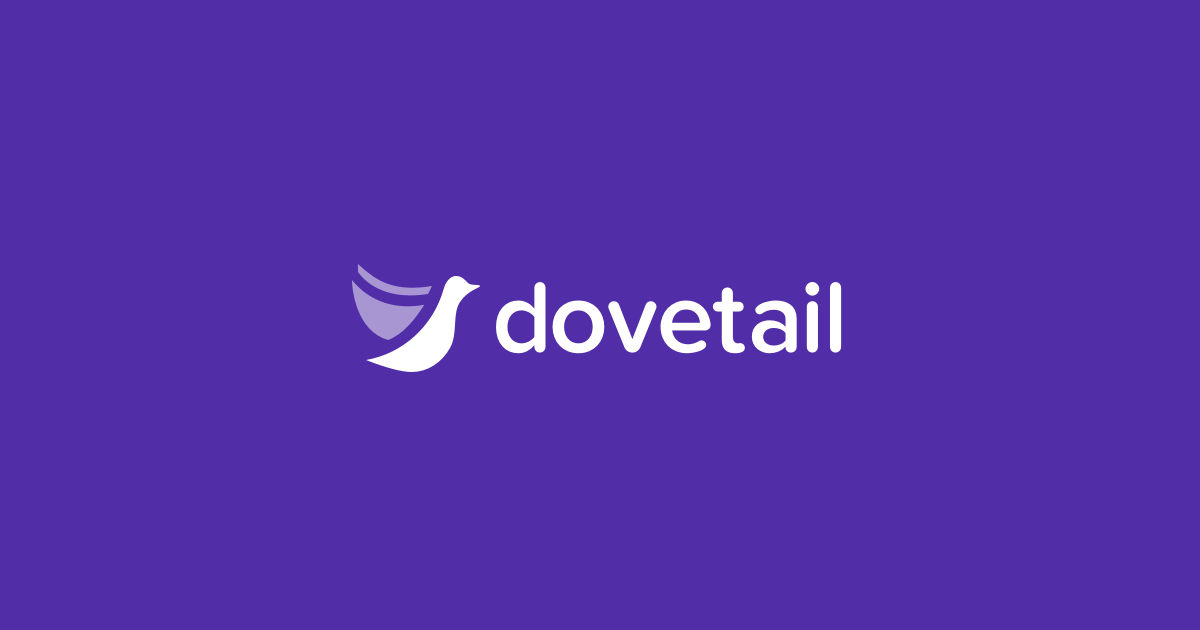
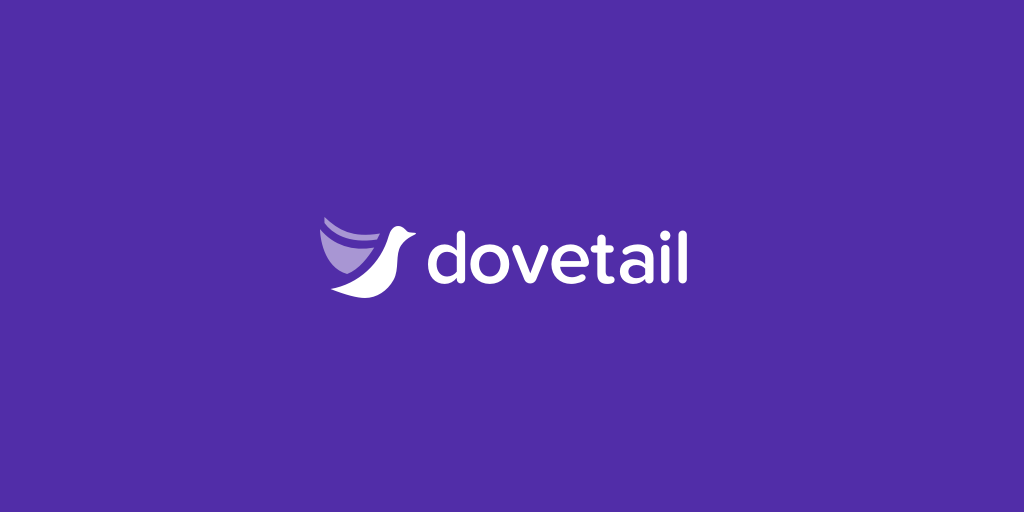
feat: Add custom og:image for each main page

Changed region(s): [[0.2812, 0.4062, 0.7188, 0.5938]]

diff --git a/src/pages/product/qda/index.tsx b/src/pages/product/qda/index.tsx
@@ -1,3 +1,4 @@
+import * as hero from "!file-loader!./hero.png";
 import IllustrationAnalysis from "@heydovetail/website/components/illustrations/IllustrationAnalysis";
 import IllustrationAnnotationEdit from "@heydovetail/website/components/illustrations/IllustrationAnnotationEdit";
 import IllustrationAnnotationsResearch from "@heydovetail/website/components/illustrations/IllustrationAnnotationsResearch";
@@ -31,9 +32,16 @@ export default class extends React.PureComponent {
       <>
         <Helmet>
           <title>Qualitative data analysis – Dovetail</title>
-          <meta name="description" content="Easily analyze qualitative data in the cloud." />
-          <meta property="og:description" content="Easily analyze qualitative data in the cloud." />
           <meta property="og:title" content="Qualitative data analysis – Dovetail" />
+          <meta property="og:image" content={hero} />
+          <meta
+            property="og:description"
+            content="Dovetail helps you easily analyze qualitative data in the cloud, making it easy to see patterns, discover insights, and decide what to do next. Our customers include Atlassian, Deloitte, Engima, HotelsCombined, Westpac, and more."
+          />
+          <meta
+            name="description"
+            content="Dovetail helps you easily analyze qualitative data in the cloud, making it easy to see patterns, discover insights, and decide what to do next. Our customers include Atlassian, Deloitte, Engima, HotelsCombined, Westpac, and more."
+          />
         </Helmet>
         <Flex gap={VERTICAL_GAP} layout="column">
           <Item>

diff --git a/src/pages/product/customer-feedback/index.tsx b/src/pages/product/customer-feedback/index.tsx
@@ -1,3 +1,4 @@
+import * as hero from "!file-loader!./hero.png";
 import IllustrationAnnotationsFeedback from "@heydovetail/website/components/illustrations/IllustrationAnnotationsFeedback";
 import IllustrationBoard from "@heydovetail/website/components/illustrations/IllustrationBoard";
 import IllustrationProjectsFeedback from "@heydovetail/website/components/illustrations/IllustrationProjectsFeedback";
@@ -31,9 +32,16 @@ export default class extends React.PureComponent {
       <>
         <Helmet>
           <title>Feedback management – Dovetail</title>
-          <meta name="description" content="Keep all of your customer feedback in one place." />
-          <meta property="og:description" content="Keep all of your customer feedback in one place." />
           <meta property="og:title" content="Feedback management – Dovetail" />
+          <meta property="og:image" content={hero} />
+          <meta
+            property="og:description"
+            content="Dovetail helps you keep all of your customer feedback in one place, making it easy to see patterns, discover insights, and decide what to do next. Our customers include Atlassian, Deloitte, Engima, HotelsCombined, Westpac, and more."
+          />
+          <meta
+            name="description"
+            content="Dovetail helps you keep all of your customer feedback in one place, making it easy to see patterns, discover insights, and decide what to do next. Our customers include Atlassian, Deloitte, Engima, HotelsCombined, Westpac, and more."
+          />
         </Helmet>
         <Flex gap={VERTICAL_GAP} layout="column">
           <Item>

diff --git a/src/pages/product/research-repository/index.tsx b/src/pages/product/research-repository/index.tsx
@@ -1,3 +1,4 @@
+import * as hero from "!file-loader!./hero.png";
 import IllustrationBarChart from "@heydovetail/website/components/illustrations/IllustrationBarChart";
 import IllustrationBoardLarge from "@heydovetail/website/components/illustrations/IllustrationBoardLarge";
 import IllustrationFiles from "@heydovetail/website/components/illustrations/IllustrationFiles";
@@ -30,9 +31,16 @@ export default class extends React.PureComponent {
       <>
         <Helmet>
           <title>User research repository – Dovetail</title>
-          <meta name="description" content="Keep all of your user research in one place." />
-          <meta property="og:description" content="Keep all of your user research in one place." />
           <meta property="og:title" content="User research repository – Dovetail" />
+          <meta property="og:image" content={hero} />
+          <meta
+            property="og:description"
+            content="Dovetail keeps all of your user research data in one place, making it easy to see patterns, discover insights, and decide what to do next. Our customers include Atlassian, Deloitte, Engima, HotelsCombined, Westpac, and more."
+          />
+          <meta
+            name="description"
+            content="Dovetail keeps all of your user research data in one place, making it easy to see patterns, discover insights, and decide what to do next. Our customers include Atlassian, Deloitte, Engima, HotelsCombined, Westpac, and more."
+          />
         </Helmet>
         <Flex gap={VERTICAL_GAP} layout="column">
           <Item>

diff --git a/src/pages/product/user-research/index.tsx b/src/pages/product/user-research/index.tsx
@@ -1,3 +1,4 @@
+import * as hero from "!file-loader!./hero.png";
 import IllustrationAnnotationsResearch from "@heydovetail/website/components/illustrations/IllustrationAnnotationsResearch";
 import IllustrationBarChart from "@heydovetail/website/components/illustrations/IllustrationBarChart";
 import IllustrationBoardLarge from "@heydovetail/website/components/illustrations/IllustrationBoardLarge";
@@ -29,9 +30,16 @@ export default class extends React.PureComponent {
       <>
         <Helmet>
           <title>Collaborative user research – Dovetail</title>
-          <meta name="description" content="Get everyone involved in user research." />
-          <meta property="og:description" content="Get everyone involved in user research." />
           <meta property="og:title" content="Collaborative user research – Dovetail" />
+          <meta property="og:image" content={hero} />
+          <meta
+            property="og:description"
+            content="Get everyone involved in user research, and make it easy to see patterns, discover insights, and decide what to do next. Our customers include Atlassian, Deloitte, Engima, HotelsCombined, Westpac, and more."
+          />
+          <meta
+            name="description"
+            content="Get everyone involved in user research, and make it easy to see patterns, discover insights, and decide what to do next. Our customers include Atlassian, Deloitte, Engima, HotelsCombined, Westpac, and more."
+          />
         </Helmet>
         <Flex gap={VERTICAL_GAP} layout="column">
           <Item>

diff --git a/src/pages/index.tsx b/src/pages/index.tsx
@@ -1,3 +1,4 @@
+import * as hero from "!file-loader!./hero.png";
 import * as customers from "@heydovetail/website/components/icons/customers";
 import IllustrationBarChart from "@heydovetail/website/components/illustrations/IllustrationBarChart";
 import IllustrationBoard from "@heydovetail/website/components/illustrations/IllustrationBoard";
@@ -18,11 +19,15 @@ import { CenteredSignUp } from "@heydovetail/website/sections/CenteredSignUp";
 import { CustomerLogos } from "@heydovetail/website/sections/CustomerLogos";
 import { UseCases } from "@heydovetail/website/sections/UseCases";
 import * as React from "react";
+import { Helmet } from "react-helmet";
 
 export default class extends React.PureComponent {
   public render() {
     return (
       <>
+        <Helmet>
+          <meta property="og:image" content={hero} />
+        </Helmet>
         <Container maxWidth={WIDTH} padding={{ x: PADDING, y: HALF_GAP }}>
           <Flex gap={VERTICAL_GAP} layout="column">
             <Item>

diff --git a/src/sections/CustomerLogos/index.tsx b/src/sections/CustomerLogos/index.tsx
@@ -14,7 +14,7 @@ export class CustomerLogos extends React.PureComponent<Props> {
     return (
       <div style={{ color: color }}>
         <FlexWrap gap={HALF_GAP} justifyContent="center">
-          {customers.map(c => <Item>{c}</Item>)}
+          {customers.map((c, i) => <Item key={i}>{c}</Item>)}
         </FlexWrap>
       </div>
     );
